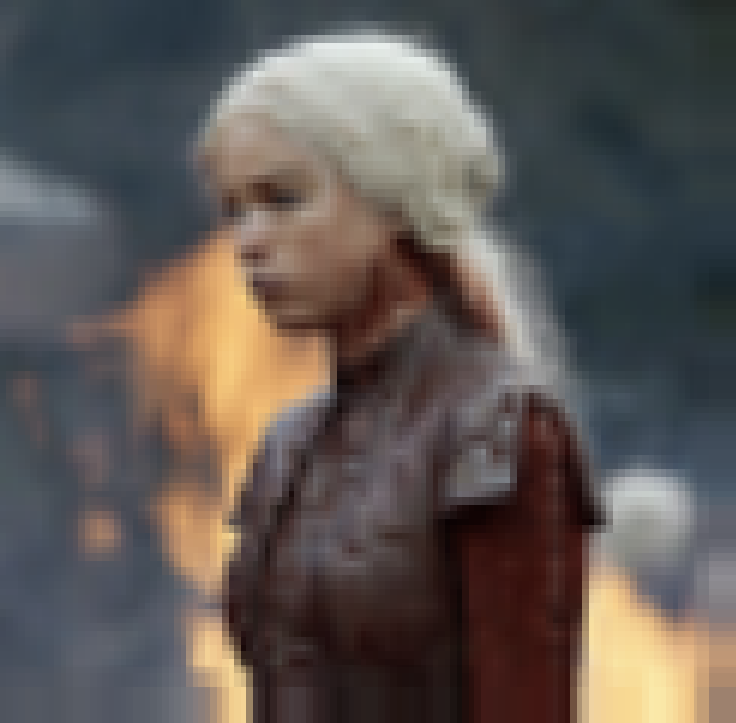
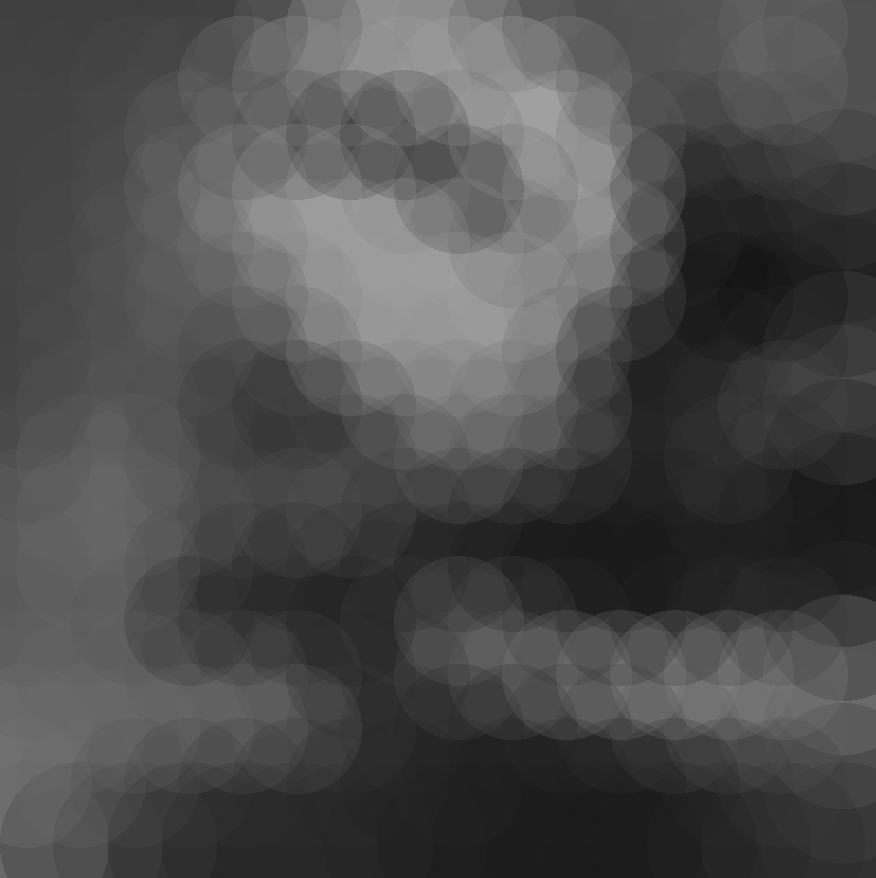
feat: Ajout du filtre noir et blanc

diff --git a/main.py b/main.py
@@ -1,4 +1,4 @@
-from image_processor import image_to_color_rects, load_image_to_array, compute_mse
+from image_processor import image_to_color_rects, load_image_to_array, compute_mse, apply_grayscale
 from render import render_image, save_image
 import numpy as np
 import os
@@ -45,6 +45,15 @@ def main():
 
     src_path = os.path.join(image_dir, chosen_image)
     print(f"\nImage choisie : {chosen_image}")
+
+    src = load_image_to_array(src_path)
+
+    # Choix du filtre
+    print("\n Options de Filtre")
+    filter_choice = input("Appliquer le filtre Noir et Blanc ? (y/n) : ").strip().lower()
+    if filter_choice == 'y': 
+        src = apply_grayscale(src)
+        print("Filtre Noir et Blanc appliqué.")
 
     # Proposer des shapes disponibles
     shapes = {
@@ -108,13 +117,12 @@ def main():
 
     # Génération de la grille selon le nombre de formes ou automatique 
     if max_rectangles is not None:
-        rects = image_to_color_rects(src_path, max_rectangles=max_rectangles)
+        rects = image_to_color_rects(src_path, max_rectangles=max_rectangles, src_img=src)
         print(f"Grille générée : {len(rects)} formes")
     else:
-        rects = image_to_color_rects(src_path, grid_cols=16, grid_rows=16)
+        rects = image_to_color_rects(src_path, grid_cols=16, grid_rows=16, src_img=src)
         print(f"Grille générée : {len(rects)} formes (16x16)")
     
-    src = load_image_to_array(src_path)
     h, w, _ = src.shape
 
     img_out = render_image(rects, w, h, shape=chosen_shape)

diff --git a/image_processor.py b/image_processor.py
@@ -27,6 +27,12 @@ def load_image_to_array(path):
         img = im.convert("RGB")
     return np.array(img, dtype=np.uint8)
 
+def apply_grayscale(np_array):
+    """Applique le filtre Noir et Blanc."""
+    img = Image.fromarray(np_array, mode="RGB")
+    grayscale_img = img.convert("L").convert("RGB")
+    return np.array(grayscale_img, dtype=np.uint8)
+
 
 def _compute_grid_from_limit(max_rectangles, width, height):
     """Calcule les dimensions de la grille en fonction du nombre max de rectangles."""
@@ -78,13 +84,16 @@ def _compute_grid_from_limit(max_rectangles, width, height):
     return best_cols, best_rows
 
 
-def image_to_color_rects(path, grid_cols=16, grid_rows=16, max_rectangles=None):
+def image_to_color_rects(path, grid_cols=16, grid_rows=16, max_rectangles=None, src_img=None):
     """Découpe une image en grille et retourne la couleur moyenne de chaque cellule."""
     if grid_cols <= 0 or grid_rows <= 0:
         raise ValueError("grid_cols et grid_rows doivent être > 0")
-
-    with Image.open(path) as im:
-        img = im.convert("RGB")
+    
+    if src_img is not None:
+        img = Image.fromarray(src_img,mode="RGB")
+    else:
+        with Image.open(path) as im:
+            img = im.convert("RGB")
 
     width, height = img.size
     # Calcul automatique de la grille si max_rectangles est spécifié
@@ -128,6 +137,7 @@ def compute_mse(a, b):
 
 __all__ = [
     "load_image_to_array",
+    "apply_grayscale"
     "image_to_color_rects",
     "compute_mse",
 ]

diff --git a/README.md b/README.md
@@ -35,13 +35,17 @@ pip install Pillow numpy
   - **Rectangles**
   - **Triangles**
   - **Cercles**
-- Découpage en grille (par défaut 16×16)
+- Choix du nombre de formes à utiliser :
+  - Nombre spécifique (ex: 100, 5, 50)
+  - Mode automatique (grille 16×16 = 256 formes)
+- Découpage en grille adaptatif selon le nombre choisi
 - Calcul automatique de la couleur moyenne par cellule
 - Fusion des shapes avec PIL et NumPy
 - Calcul de l'erreur **MSE** (Mean Squared Error)
 - Interface console simple pour sélectionner :
   - l'image source
   - la shape de reconstruction
+  - le nombre de formes
 
 ## 🎮 Utilisation
 
@@ -53,22 +57,29 @@ python3 main.py
 ### Le programme vous guide pour :
 
 1. **Choisir une image** dans le dossier `images/`
-2. **Choisir une shape** :
+2. **Choix du filtre noir et blanc**
+3. **Choisir une shape** :
    - `1` = Rectangle
    - `2` = Triangle
    - `3` = Cercle
-3. **Générer une reconstruction** basée sur les couleurs moyennes
-4. **Sauvegarder le résultat** automatiquement dans `resultat/sortie.png`
-5. **Afficher la MSE** entre l'image originale et la reconstruction
+4. **Choisir le nombre de formes** :
+   - Entrer un nombre (ex: `100`, `5`, `50`) pour un nombre spécifique
+   - Entrer `auto` pour utiliser la grille automatique (16×16 = 256 formes)
+5. **Générer une reconstruction** basée sur les couleurs moyennes
+6. **Sauvegarder le résultat** automatiquement dans `resultat/sortie.png`
+7. **Afficher la MSE** entre l'image originale et la reconstruction
+
+**Note :** Le programme affiche le nombre réel de formes générées. Si vous demandez un nombre qui ne peut pas être exactement atteint (ex: 7), le programme utilisera la combinaison la plus proche possible (ex: 6 formes).
 
 ## ⚙ Fonctionnement
 
 1. L'image est découpée en une grille
 2. Chaque cellule fournit sa couleur moyenne
 3. Une shape est générée selon la shape choisie
-4. Les shapes sont fusionnées via un masque (PIL + NumPy)
-5. L'image finale est normalisée et exportée
-6. La MSE est calculée
+4. Le filtre noir et blanc est appliqué a l'image source
+5. Les shapes sont fusionnées via un masque (PIL + NumPy)
+6. L'image finale est normalisée et exportée
+7. La MSE est calculée
 
 ## 📚 Détails du code
 
@@ -76,13 +87,15 @@ python3 main.py
 - Classe abstraite `Shape`
 - Classes `RectangleShape`, `TriangleShape`, `CircleShape`
 - Factory `create_shape()` pour instancier les shapes
-
 ### `image_processor.py`
 - Chargement d'image (`load_image_to_array`)
 - Découpage en grille (`image_to_color_rects`)
 - Calcul des couleurs moyennes
 - Calcul de l'erreur MSE (`compute_mse`)
-- Définition dynamique de la grille (`_compute_grid_from_limit`)
+- Définition dynamique de la grille (`_compute_grid_from_limit`) :
+  - Calcule les dimensions optimales (colonnes × lignes) pour un nombre donné
+  - Respecte le ratio de l'image
+  - Priorise les combinaisons exactes quand possible
 
 ### `render.py`
 - Dessin et superposition des shapes géométriques
@@ -91,7 +104,8 @@ python3 main.py
 
 ### `main.py`
 - Menu interactif console
-- Gestion du choix de l'image et de la shape
-- Reconstruction
+- Gestion du choix de l'image, de la forme et du nombre de formes
+- Reconstruction avec le nombre de formes choisi
+- Affichage du nombre réel de formes générées
 - Calcul de la MSE
 - Sauvegarde dans `resultat/sortie.png`
